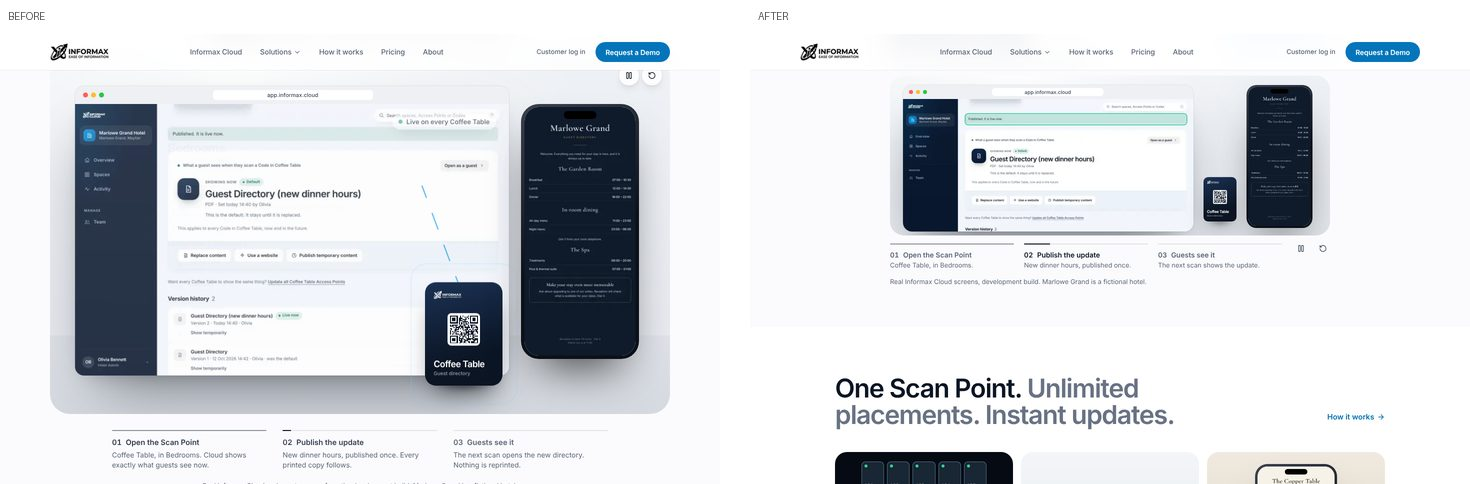
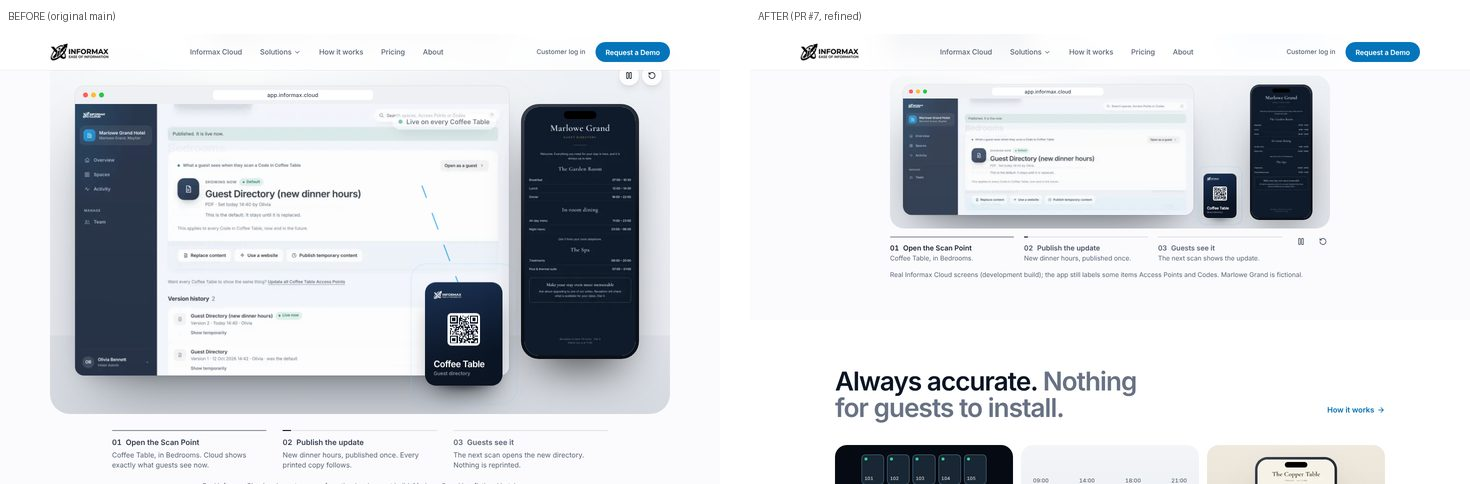
Showcase refinements: soft highlights, phone layout, terminology note
Soft tint and a tiny Updated word replace the green outline and badge.
Staggered, eased choreography with longer holds. Phones crop the sidebar
(never altered) for a larger dashboard with nothing covering it. The next
section heading no longer repeats the showcase line. The screen note and
handover record that the real captures still show Access Point and Code
wording and are unverified against the current Cloud app.

Claude-Session: https://claude.ai/code/session_01MspNe9cz8omwJuucq15a7L

diff --git a/src/components/x/Showcase.tsx b/src/components/x/Showcase.tsx
@@ -2,7 +2,7 @@
 
 import { useEffect, useRef, useState, useSyncExternalStore } from "react";
 import { useReducedMotion } from "framer-motion";
-import { Check, Pause, Play, RotateCcw } from "lucide-react";
+import { Pause, Play, RotateCcw } from "lucide-react";
 import { BrowserFrame, GUEST_SCALE, PhoneFrame } from "@/components/x/Devices";
 import ScanPoint from "@/components/x/ScanPoint";
 
@@ -14,26 +14,39 @@ import ScanPoint from "@/components/x/ScanPoint";
  * Everything on screen is real: the Cloud screens and the guest phone are
  * captures of the application (see src/lib/screens.ts) showing the fictional
  * Marlowe Grand Hotel. The Scan Point plate is drawn and its Code is
- * illustrative. The two highlight rings and the small confirmation are the
- * only additions, and they sit on top of the captures.
+ * illustrative. Three soft tints (the Coffee Table row, the published banner,
+ * the changed dinner line) and one small word, "Updated", are the only
+ * additions, and they sit on top of the captures.
  *
  * It plays only while on screen, has play, pause and replay controls, every
  * beat can be chosen by hand, and reduced motion shows the finished state
  * with no movement (the controls still step through it).
  */
 const BEATS = [
-  { label: "Open the Scan Point", body: "Coffee Table, in Bedrooms.", ms: 3600 },
-  { label: "Publish the update", body: "New dinner hours, published once.", ms: 3400 },
-  { label: "Guests see it", body: "The next scan shows the update.", ms: 4400 },
+  { label: "Open the Scan Point", body: "Coffee Table, in Bedrooms.", ms: 4200 },
+  { label: "Publish the update", body: "New dinner hours, published once.", ms: 4400 },
+  { label: "Guests see it", body: "The next scan shows the update.", ms: 6200 },
 ] as const;
 
-/** Both Cloud captures are cropped to their top part, which holds everything shown. */
-const CROP = "1800 / 820";
-/** Fractions of the cropped capture (its content column starts at 21.4% of the width). */
-const ROW = { left: 21.4, width: 76.1, top: 75.2, height: 11.3 }; // the Coffee Table row, Bedrooms
-const BANNER = { left: 21.4, width: 76.1, top: 11.4, height: 7.6 }; // "Published. It is live now."
+/**
+ * Both Cloud captures are cropped to their top 722 px (of 1125), which holds
+ * everything shown and leaves out the lower part of the page. Desktop shows the
+ * whole width; phones show the content column only (the sidebar is cropped
+ * away, never altered) so the dashboard can be larger.
+ */
+const CROP_H = 722;
+const CONTENT_LEFT = 0.214; // the content column starts here (fraction of the capture width)
+/** Pixel boxes on the capture: the Coffee Table row (Bedrooms) and the "Published. It is live now." banner. */
+const ROW_PX = [616, 714] as const;
+const BANNER_PX = [90, 156] as const;
+const ringBox = (px: readonly [number, number], phone: boolean) => ({
+  left: `${phone ? 0.4 : CONTENT_LEFT * 100}%`,
+  width: `${phone ? 96.6 : 76.1}%`,
+  top: `${(px[0] / CROP_H) * 100}%`,
+  height: `${((px[1] - px[0]) / CROP_H) * 100}%`,
+});
 /** Where the dinner row sits on the captured guest directory (fractions of the screen height). */
-const DINNER = { top: 0.318, height: 0.042 };
+const DINNER = { top: 0.3165, height: 0.0345 }; // between the row's own divider lines
 
 const noSubscribe = () => () => {};
 
@@ -95,64 +108,74 @@ export default function Showcase() {
     setPaused(!stopped);
   };
 
-  const ring = (on: boolean, tone: "brand" | "ok") =>
-    `pointer-events-none absolute rounded-[3px] transition-opacity duration-500 motion-reduce:transition-none sm:rounded-[5px] ${on ? "opacity-100" : "opacity-0"} ${
-      tone === "ok" ? "bg-emerald-400/10 shadow-[0_0_0_1.5px_rgba(16,185,129,0.85)]" : "bg-sky-400/10 shadow-[0_0_0_1.5px_rgba(6,147,227,0.8)]"
-    }`;
+  // Highlights are soft tints with no border; they arrive after the screen they sit on has settled, and leave quickly.
+  const ring = (on: boolean, tone: "brand" | "ok", delay = "delay-500") =>
+    `pointer-events-none absolute rounded-[3px] transition-opacity motion-reduce:transition-none sm:rounded-[5px] ${
+      on ? `opacity-100 duration-700 ${delay}` : "opacity-0 duration-300"
+    } ${tone === "ok" ? "bg-emerald-500/[0.12]" : "bg-sky-500/[0.12]"}`;
+  // One easing for all movement; screens cross-fade on their own, slower, curve.
+  const ease = "ease-[cubic-bezier(0.22,1,0.36,1)]";
 
   return (
     <div ref={box} className="mx-auto max-w-[880px]">
-      <div className="relative mx-auto h-[210px] w-full overflow-hidden rounded-[22px] bg-[linear-gradient(180deg,#eef1f5_0%,#e3e7ed_100%)] sm:h-auto sm:aspect-[880/320] sm:rounded-[28px]">
+      <div className="relative mx-auto h-[224px] w-full overflow-hidden rounded-[22px] bg-[linear-gradient(180deg,#eef1f5_0%,#e3e7ed_100%)] sm:h-auto sm:aspect-[880/306] sm:rounded-[28px]">
         <div aria-hidden className="absolute inset-0 bg-[radial-gradient(80%_70%_at_28%_0%,rgba(255,255,255,0.95),transparent_70%)]" />
 
-        {/* Informax Cloud, on a computer. It settles back once the guest has the update. */}
+        {/* Informax Cloud, on a computer. It recedes a little once the guest has the update. */}
         <div
-          className={`absolute left-[3%] top-[5%] w-[94%] transition-[transform,opacity] duration-700 ease-[cubic-bezier(0.16,1,0.3,1)] motion-reduce:transition-none sm:top-[6%] sm:w-[66%] ${
-            guest ? "opacity-85 sm:scale-[0.99]" : "opacity-100"
+          className={`absolute left-[2%] top-[8px] w-[74%] transition-[transform,opacity] duration-[900ms] ${ease} motion-reduce:transition-none sm:left-[3%] sm:top-[6%] sm:w-[66%] ${
+            guest ? "opacity-90 sm:scale-[0.992]" : "opacity-100"
           }`}
         >
           <BrowserFrame
             screens={["deskBedrooms", "deskDirectoryPublished"]}
             active={published ? 1 : 0}
-            aspect={CROP}
+            aspectClass="aspect-[1415/722] sm:aspect-[1800/722]"
+            imgClassName="max-sm:origin-top-right max-sm:scale-[1.272]"
             compact
             priority
-            sizes="(min-width: 960px) 580px, (min-width: 640px) 66vw, 94vw"
+            sizes="(min-width: 960px) 580px, (min-width: 640px) 66vw, 100vw"
           >
-            <span aria-hidden className={ring(shown === 0, "brand")} style={{ left: `${ROW.left}%`, width: `${ROW.width}%`, top: `${ROW.top}%`, height: `${ROW.height}%` }} />
-            <span aria-hidden className={ring(shown === 1, "ok")} style={{ left: `${BANNER.left}%`, width: `${BANNER.width}%`, top: `${BANNER.top}%`, height: `${BANNER.height}%` }} />
+            {/* Phones show the content column only, so the highlights are placed for that crop. */}
+            {([true, false] as const).map((phone) => (
+              <span key={String(phone)} aria-hidden className={phone ? "sm:hidden" : "max-sm:hidden"}>
+                <span className={ring(shown === 0, "brand")} style={ringBox(ROW_PX, phone)} />
+                <span className={ring(shown === 1, "ok", "delay-[450ms]")} style={ringBox(BANNER_PX, phone)} />
+              </span>
+            ))}
           </BrowserFrame>
         </div>
 
-        {/* The physical Scan Point: lifts as the update reaches it. */}
+        {/* The physical Scan Point: lifts as the update is published. */}
         <div
-          className={`absolute bottom-[6%] left-[4%] w-[58px] transition-transform duration-700 ease-[cubic-bezier(0.16,1,0.3,1)] motion-reduce:transition-none sm:bottom-[7%] sm:left-[71.2%] sm:w-[7.6%] ${
-            shown === 1 ? "-translate-y-1.5" : ""
+          className={`absolute bottom-[11px] left-[46%] w-[52px] transition-transform duration-[900ms] ${ease} motion-reduce:transition-none sm:bottom-[7%] sm:left-[71.2%] sm:w-[7.6%] ${
+            shown === 1 ? "-translate-y-1.5 delay-200" : ""
           }`}
         >
           <ScanPoint place="Coffee Table" sub="Guest directory" finish="navy" pulse={shown === 1 ? `p-${cycle}` : null} />
         </div>
 
-        {/* The guest's phone: lifts when the new directory arrives. */}
+        {/* The guest's phone: lifts when the new directory arrives, then the changed line is softly tinted and labelled. */}
         <div
-          className={`absolute bottom-[5%] right-[4%] w-[80px] transition-transform duration-700 ease-[cubic-bezier(0.16,1,0.3,1)] motion-reduce:transition-none sm:bottom-auto sm:right-[4%] sm:top-[6%] sm:w-[15%] ${
-            guest ? "-translate-y-1.5" : ""
+          className={`absolute bottom-[11px] right-[3%] w-[24%] transition-transform duration-[900ms] ${ease} motion-reduce:transition-none sm:bottom-auto sm:right-[4%] sm:top-[6%] sm:w-[14.2%] ${
+            guest ? "-translate-y-1.5 delay-200" : ""
           }`}
         >
-          <div className="relative">
-            <PhoneFrame screens={["guestDirectoryBefore", "guestDirectoryAfter"]} active={guest ? 1 : 0} priority sizes="(min-width: 960px) 132px, 80px" />
+          <div className="relative [container-type:inline-size]">
+            <PhoneFrame screens={["guestDirectoryBefore", "guestDirectoryAfter"]} active={guest ? 1 : 0} priority sizes="(min-width: 960px) 125px, 90px" />
+            {/* The changed row: a soft tint behind the line, no border, and a small word beside the new hours. */}
             <span
               aria-hidden
-              className={`pointer-events-none absolute inset-x-[8%] rounded-[3px] bg-emerald-400/12 shadow-[0_0_0_1.5px_rgba(16,185,129,0.9)] transition-opacity duration-500 motion-reduce:transition-none ${guest ? "opacity-100" : "opacity-0"}`}
+              className={`pointer-events-none absolute inset-x-[8%] rounded-[2px] bg-white/[0.08] ${guest ? "x-tint" : "opacity-0"}`}
               style={{ top: `calc(1.3% + ${DINNER.top * 97.4 * GUEST_SCALE}%)`, height: `${DINNER.height * 97.4 * GUEST_SCALE}%` }}
             />
             <span
               aria-hidden
-              className={`absolute bottom-[5%] left-1/2 flex -translate-x-1/2 items-center gap-1 whitespace-nowrap rounded-full bg-white px-2 py-0.5 text-[10px] font-semibold text-ink shadow-[0_6px_16px_-6px_rgba(11,21,36,0.45)] transition-all duration-500 motion-reduce:transition-none ${
-                guest ? "translate-y-0 opacity-100" : "translate-y-1 opacity-0"
+              className={`pointer-events-none absolute right-[28%] flex items-center whitespace-nowrap font-medium leading-none tracking-[0.01em] text-white/60 [font-size:clamp(4px,4.8cqw,6.5px)] transition-opacity motion-reduce:transition-none ${
+                guest ? "opacity-100 duration-700 delay-[1400ms]" : "opacity-0 duration-300"
               }`}
+              style={{ top: `calc(1.3% + ${DINNER.top * 97.4 * GUEST_SCALE}%)`, height: `${DINNER.height * 97.4 * GUEST_SCALE}%` }}
             >
-              <Check size={10} strokeWidth={3} className="text-moss" />
               Updated
             </span>
           </div>

diff --git a/src/components/x/Devices.tsx b/src/components/x/Devices.tsx
@@ -94,6 +94,8 @@ export function BrowserFrame({
   address = "app.informax.cloud",
   children,
   aspect,
+  aspectClass,
+  imgClassName = "",
   compact = false,
 }: {
   screens: ScreenKey[];
@@ -105,6 +107,10 @@ export function BrowserFrame({
   children?: ReactNode;
   /** Crop the screen to this aspect ratio (CSS, e.g. "1800 / 820"), keeping the top of the capture. */
   aspect?: string;
+  /** Responsive aspect ratio as a class (overrides `aspect`), e.g. "aspect-[1415/722] sm:aspect-[1800/722]". */
+  aspectClass?: string;
+  /** Extra classes on every screen image, for example a zoom on small screens. */
+  imgClassName?: string;
   /** A slimmer title bar, for small compositions. */
   compact?: boolean;
 }) {
@@ -122,7 +128,7 @@ export function BrowserFrame({
         </span>
         <span className="hidden w-[38px] sm:block" />
       </div>
-      <div className="relative" style={{ aspectRatio: aspect ?? `${first.width} / ${first.height}` }}>
+      <div className={`relative ${aspectClass ?? ""}`} style={aspectClass ? undefined : { aspectRatio: aspect ?? `${first.width} / ${first.height}` }}>
         {screens.map((key, i) => {
           const s = SCREENS[key];
           return (
@@ -134,7 +140,7 @@ export function BrowserFrame({
               fill
               sizes={sizes}
               priority={priority && i === 0}
-              className={`object-cover object-top transition-opacity duration-700 ease-[cubic-bezier(0.16,1,0.3,1)] motion-reduce:transition-none ${
+              className={`object-cover object-top transition-opacity duration-700 ease-[cubic-bezier(0.16,1,0.3,1)] motion-reduce:transition-none ${imgClassName} ${
                 i === active ? "opacity-100" : "opacity-0"
               }`}
             />

diff --git a/src/app/page.tsx b/src/app/page.tsx
@@ -69,7 +69,7 @@ export default function Home() {
             </div>
             <Showcase />
             <div className="mx-auto mt-2 max-w-[880px] sm:mt-3">
-              <ScreenNote>Real Informax Cloud screens, development build. Marlowe Grand is a fictional hotel.</ScreenNote>
+              <ScreenNote>Real Informax Cloud screens (development build); the app still labels some items Access Points and Codes. Marlowe Grand is fictional.</ScreenNote>
             </div>
           </div>
         </Container>
@@ -80,7 +80,7 @@ export default function Home() {
         <Container>
           <Reveal className="mb-9 flex flex-col gap-3 md:mb-12 md:flex-row md:items-end md:justify-between">
             <h2 id="benefits-h" className="x-title max-w-[22ch] text-balance text-[clamp(30px,4vw,52px)] text-ink">
-              One Scan Point. <span className="text-ink-quiet">Unlimited placements. Instant updates.</span>
+              Always accurate. <span className="text-ink-quiet">Nothing for guests to install.</span>
             </h2>
             <Link href="/how-it-works" className="ix-link group shrink-0 text-brass-deep hover:text-ink">
               How it works <ArrowRight size={16} aria-hidden className="transition-transform group-hover:translate-x-0.5" />

diff --git a/src/app/globals.css b/src/app/globals.css
@@ -541,7 +541,12 @@ svg {
 @keyframes x-bar { from { transform: scaleX(0); } to { transform: scaleX(1); } }
 .x-bar { transform-origin: left; animation: x-bar var(--x-bar-dur, 4s) linear both; }
 
+/* The changed line on the guest's phone: a soft tint that comes in, rests, and leaves. No border. */
+@keyframes x-tint { 0% { opacity: 0; } 20%, 60% { opacity: 1; } 100% { opacity: 0; } }
+.x-tint { animation: x-tint 3600ms cubic-bezier(0.4, 0, 0.2, 1) 800ms both; }
+
 @media (prefers-reduced-motion: reduce) {
+  .x-tint { animation: none !important; opacity: 1; }
   .x-ping, .x-flow, .x-bar { animation: none !important; }
   .x-ping { opacity: 0; }
   .x-bar { transform: scaleX(1); }

diff --git a/HANDOVER.md b/HANDOVER.md
@@ -11,9 +11,11 @@ redesign is on branch `redesign/restaurant-first`, NOT live. Production still
 serves `main` (the 28 September Access Point site, §0b). Once §0c is merged,
 §0b, §0a and §0 are historical wherever they conflict with it.
 
-## 22 November 2026: compact product showcase (branch `showcase/compact`, NOT live)
+## 22 November 2026: compact product showcase (branch `showcase/compact`, PR #7, NOT live)
 
-PR #6 is live on `main` (merge commit `7fed6b4`; rollback target: Vercel deployment `informax-site-iv5irkrs4-informax.vercel.app`, `main` at `8bac8e0`). This branch replaces the homepage's `HeroStage` with `src/components/x/Showcase.tsx`, a compact composition: the real Marlowe Grand captures (Bedrooms list, then the published Coffee Table Scan Point), a drawn Scan Point plate and the real guest phone, in three beats. Section copy: "See Informax in action" / "One Scan Point. Unlimited placements. Instant updates.", with a discreet Explore Informax Cloud link. Size of the whole block: 913 to 506px (1440 wide), 738 to 440px (834), 721 to 440px (390). `BrowserFrame` gained `aspect` and `compact` options. Only the two highlight rings and the small "Updated" chip are added over the captures. Needs the owner's approval before merging (merging to `main` deploys). Evidence: `docs/qa/showcase-2026-11-22/`. Not re-checked against the current Cloud app (no access to that repo from this session); the captures are as recorded in "Informax Cloud screenshots".
+PR #6 is live on `main` (merge commit `7fed6b4`; rollback target: Vercel deployment `informax-site-iv5irkrs4-informax.vercel.app`, `main` at `8bac8e0`). PR #7 replaces the homepage's `HeroStage` with `src/components/x/Showcase.tsx`: the real Marlowe Grand captures (Bedrooms list, then the published Coffee Table Scan Point, then the guest phone), a drawn Scan Point plate, three beats, play/pause/replay, reduced motion shows the outcome. Copy: "See Informax in action" / "One Scan Point. Unlimited placements. Instant updates." with a discreet Explore link. The following section's heading is now "Always accurate. Nothing for guests to install." Size of the whole block: 913 to 492px (1440 wide), 738 to 449px (834), 721 to 475px (390; phones got a larger, uncovered dashboard instead of a smaller block).
+
+**Terminology and authenticity (read before changing the captures).** Every genuine capture still shows the app's own words "Access Point(s)" and "Code(s)" (search bar, Bedrooms page, "scan a Code in Coffee Table"). Pixels are never edited to say "Scan Point": that would misrepresent the product. All text we write says Scan Points. The captures are cropped to the top 722 px (no search-bar-free crop is possible without losing the Informax Cloud logo) and the on-page note says the app still labels some items Access Points and Codes. **Not verified against the current Cloud app**: the captures are recorded in "Informax Cloud screenshots" (taken from the real V2 views at `3ae4141`) and this session was refused access to the Cloud repo. When the Cloud UI says Scan Point, re-capture (procedure in "Informax Cloud screenshots") and drop that note. Added over the captures: three soft tints (Coffee Table row, "Published" banner, the changed Dinner line) and one tiny word "Updated"; no borders or glows. `BrowserFrame` gained `aspect`, `aspectClass`, `imgClassName` and `compact`. Phones crop the sidebar away (never altered) so the dashboard can be larger. Needs the owner's approval before merging (merging to `main` deploys). Evidence: `docs/qa/showcase-2026-11-22/`.
 
 ## Launch plan for PR #6 (prepared 21 November 2026, awaiting the owner's approval)
 
